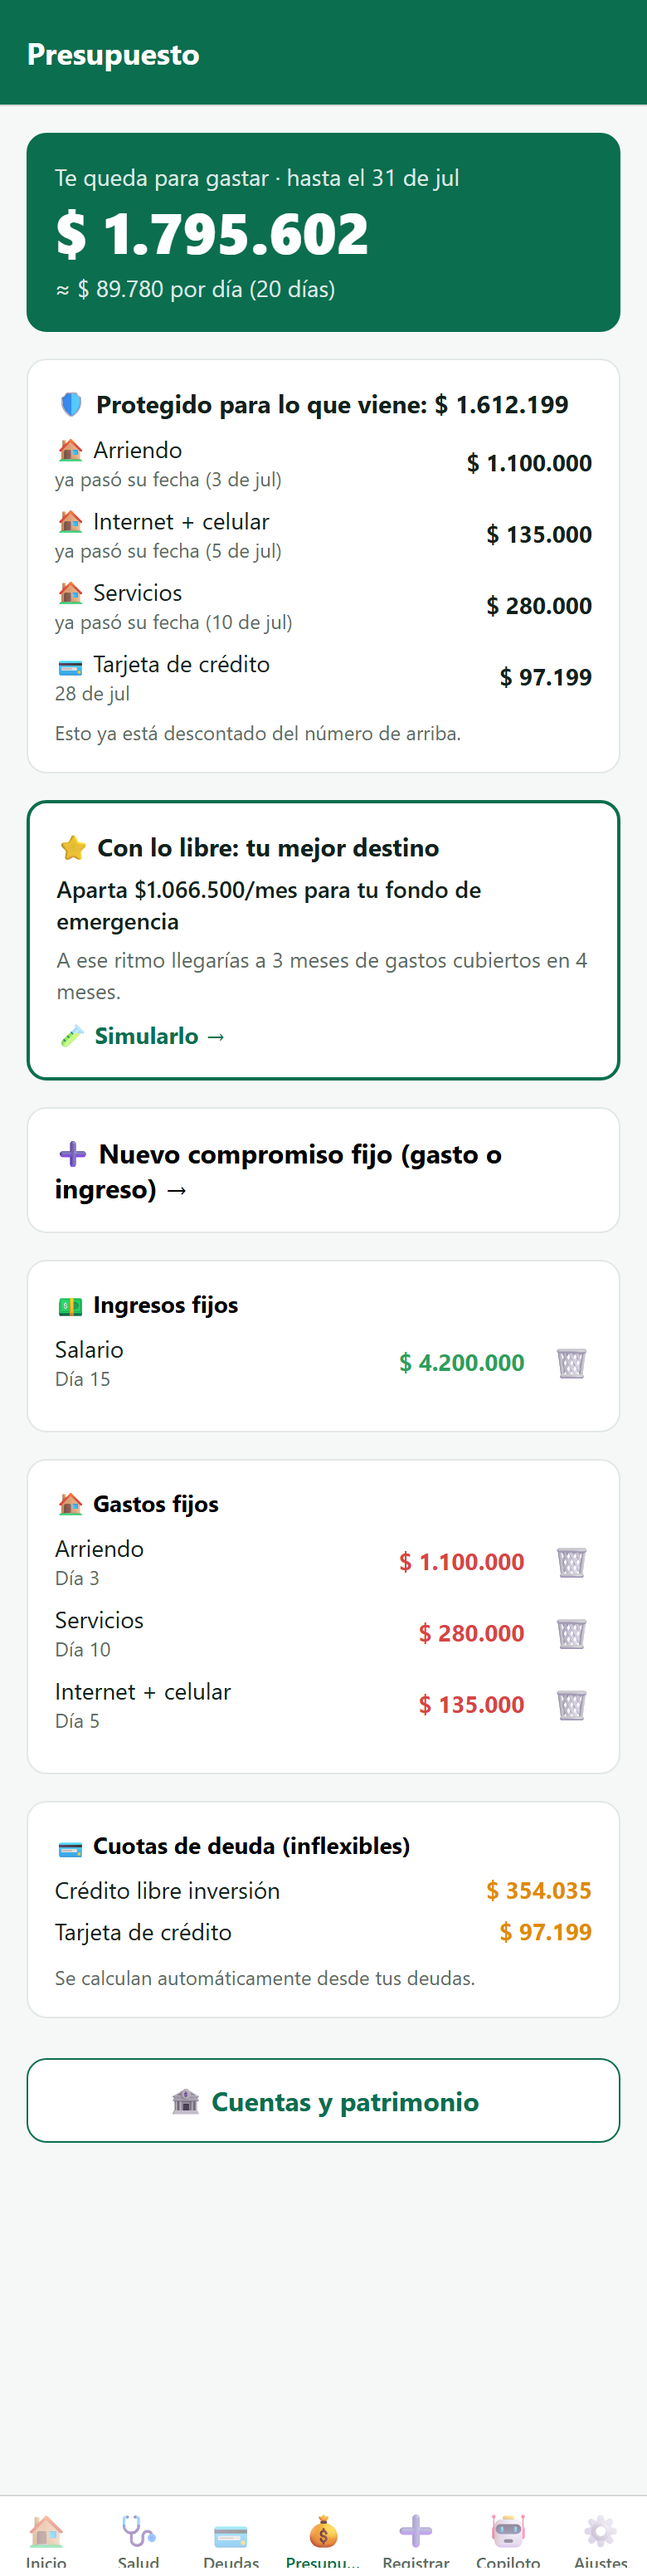
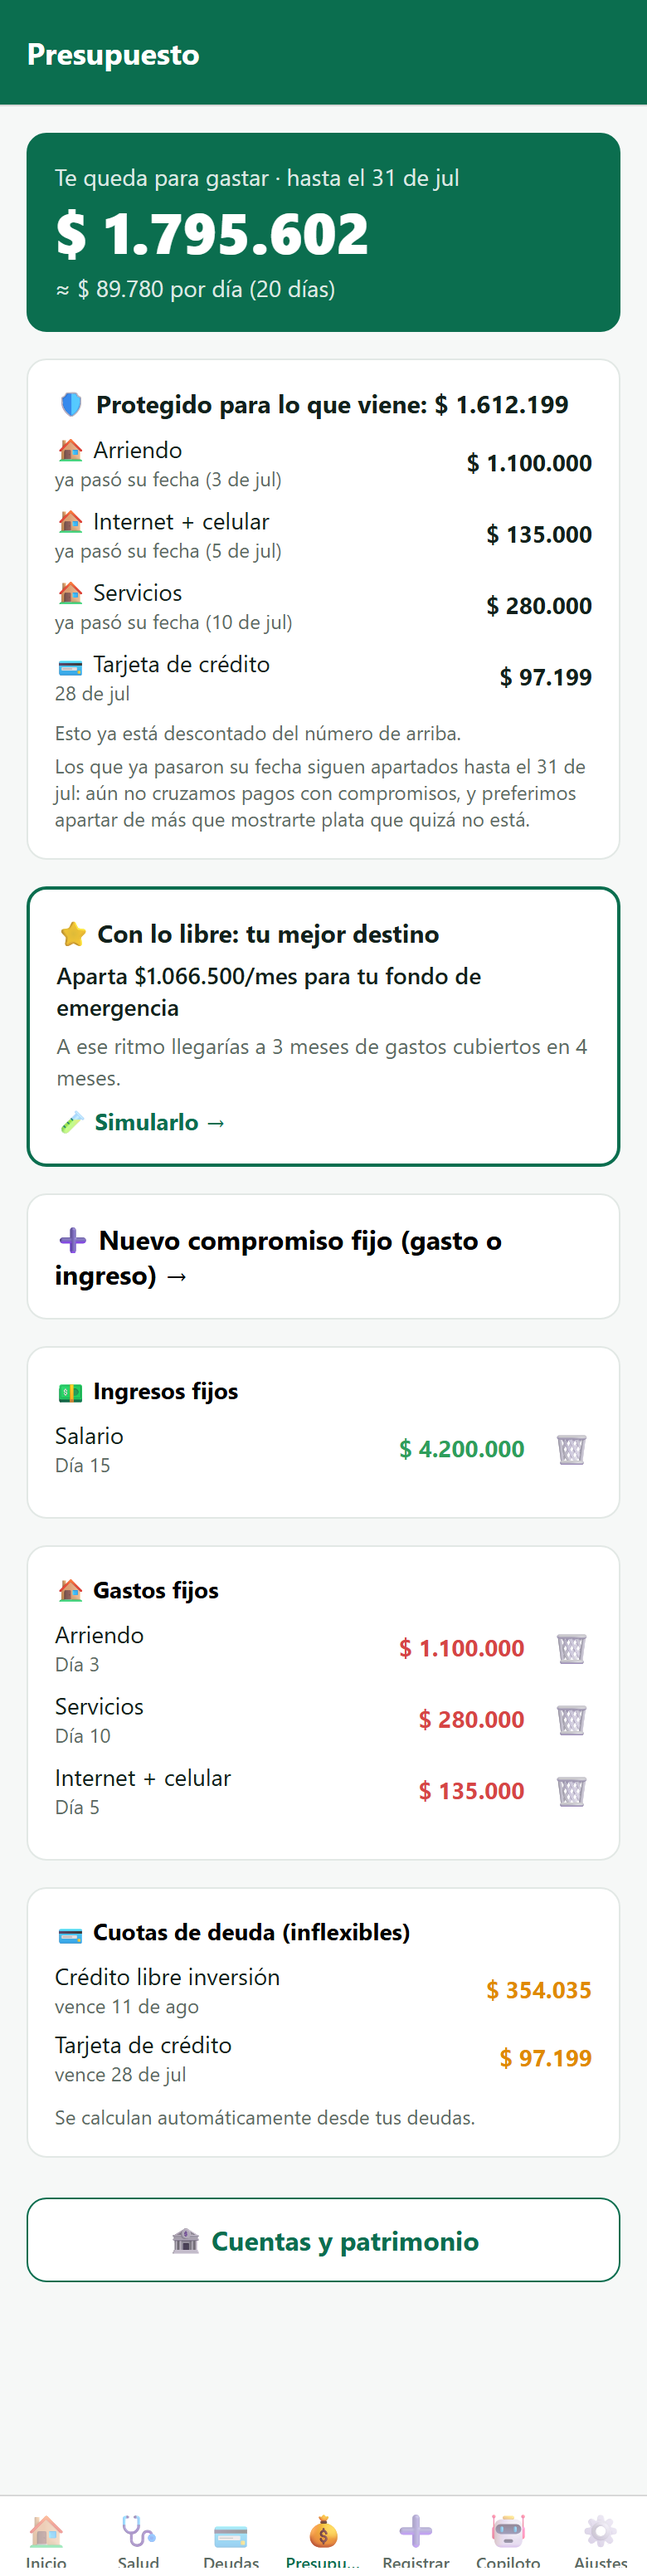
fix(presupuesto): ajustes de revisión CPSAO post-cierre FIN-020 (puntos 1 y 3)
- ProtectedTimeline: la política §4.1-bis visible al usuario — 'ya pasó su
  fecha' no afirma impago; sigue apartado hasta el fin del ciclo (fecha
  concreta, sin vocabulario interno) con el porqué del sesgo conservador.
- Cuotas de deuda (P6): fecha de vencimiento visible en cada cuota — se
  puede verificar a simple vista por qué una cuota está o no en 'Protegido
  para lo que viene' (Crédito libre inversión vence 11 ago > 31 jul).
- Captura full-scroll actualizada. Sin cambios de alcance en FIN-020
  (CERRADA) ni en el hallazgo §32 del fondo de emergencia (pendiente de
  decisión CPSAO).

diff --git a/frontend/src/screens/BudgetScreen.tsx b/frontend/src/screens/BudgetScreen.tsx
@@ -75,7 +75,17 @@ export function BudgetScreen() {
               </Text>
               {data.debts.map((d) => (
                 <Row key={d.debtId} style={{ justifyContent: 'space-between', marginBottom: 6 }}>
-                  <Text style={{ color: colors.text }}>{d.name}</Text>
+                  <View style={{ flex: 1 }}>
+                    <Text style={{ color: colors.text }}>{d.name}</Text>
+                    {/* Ajuste post-cierre (revisión CPSAO, punto 3): fecha visible
+                        también aquí — así se verifica a simple vista por qué una
+                        cuota está o no en "Protegido para lo que viene". */}
+                    {d.nextDueDate ? (
+                      <Text style={{ color: colors.textMuted, fontSize: 12 }}>
+                        vence {shortDate(d.nextDueDate)}
+                      </Text>
+                    ) : null}
+                  </View>
                   <Text style={{ fontWeight: '700', color: colors.warning }}>
                     {formatMoney(d.amount)}
                   </Text>
@@ -171,6 +181,15 @@ function ProtectedTimeline({ teQueda }: { teQueda: TeQueda }) {
       <Text style={{ color: colors.textMuted, fontSize: 12, marginTop: spacing.sm }}>
         Esto ya está descontado del número de arriba.
       </Text>
+      {/* Ajuste post-cierre (revisión CPSAO, punto 1): la política §4.1-bis
+          visible al usuario — "ya pasó su fecha" NO afirma que quedó sin pagar. */}
+      {teQueda.pendingCommitments.some((c) => c.datePassed) ? (
+        <Text style={{ color: colors.textMuted, fontSize: 12, marginTop: 4 }}>
+          Los que ya pasaron su fecha siguen apartados hasta el {shortDate(teQueda.until)}:
+          aún no cruzamos pagos con compromisos, y preferimos apartar de más que mostrarte
+          plata que quizá no está.
+        </Text>
+      ) : null}
     </Card>
   );
 }
